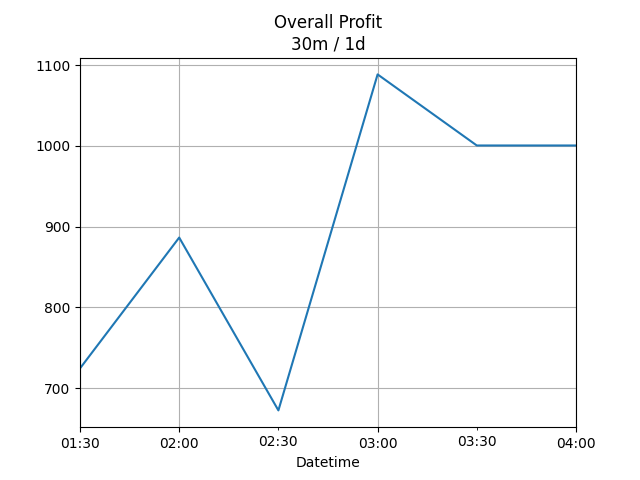
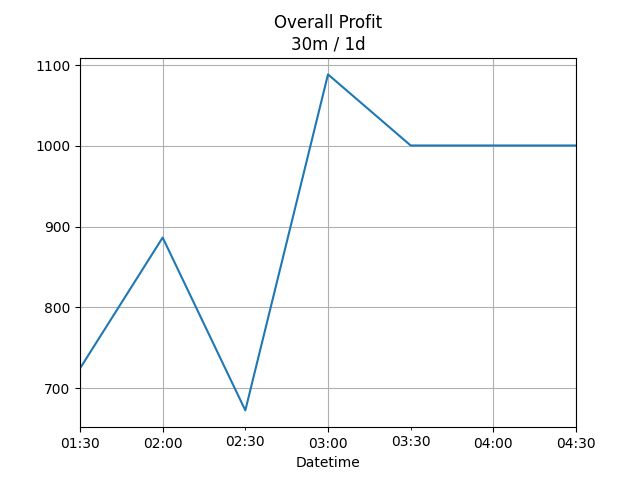
github action

diff --git a/record/mm/summary.md b/record/mm/summary.md
@@ -2,7 +2,7 @@
 ### $1000.60
 |type|graph|data|
 |:---:|:---:|:---:|
-|30m / 1d|![net_profit](image/overall_30m-1d.png)|<table border="1" class="dataframe"> <thead> <tr style="text-align: center;"> <th>Datetime</th> <th>profit</th> </tr> </thead> <tbody> <tr> <td>01:30</td> <td>724.6</td> </tr> <tr> <td>02:00</td> <td>886.6</td> </tr> <tr> <td>02:30</td> <td>672.6</td> </tr> <tr> <td>03:00</td> <td>1088.6</td> </tr> <tr> <td>03:30</td> <td>1000.6</td> </tr> <tr> <td>04:00</td> <td>1000.6</td> </tr> </tbody></table>|
+|30m / 1d|![net_profit](image/overall_30m-1d.png)|<table border="1" class="dataframe"> <thead> <tr style="text-align: center;"> <th>Datetime</th> <th>profit</th> </tr> </thead> <tbody> <tr> <td>01:30</td> <td>724.6</td> </tr> <tr> <td>02:00</td> <td>886.6</td> </tr> <tr> <td>02:30</td> <td>672.6</td> </tr> <tr> <td>03:00</td> <td>1088.6</td> </tr> <tr> <td>03:30</td> <td>1000.6</td> </tr> <tr> <td>04:00</td> <td>1000.6</td> </tr> <tr> <td>04:30</td> <td>1000.6</td> </tr> </tbody></table>|
 |1d / 5d|![net_profit](image/overall_1d-5d.png)|<table border="1" class="dataframe"> <thead> <tr style="text-align: center;"> <th>Date</th> <th>profit</th> </tr> </thead> <tbody> <tr> <td>2025-08-26</td> <td>1864.6</td> </tr> <tr> <td>2025-08-27</td> <td>1474.6</td> </tr> <tr> <td>2025-08-28</td> <td>584.6</td> </tr> <tr> <td>2025-08-31</td> <td>850.6</td> </tr> <tr> <td>2025-09-01</td> <td>1000.6</td> </tr> </tbody></table>|
 |1wk / 1mo|![net_profit](image/overall_1wk-1mo.png)|<table border="1" class="dataframe"> <thead> <tr style="text-align: center;"> <th>Date</th> <th>profit</th> </tr> </thead> <tbody> <tr> <td>2025-08-03</td> <td>3666.99</td> </tr> <tr> <td>2025-08-10</td> <td>1472.30</td> </tr> <tr> <td>2025-08-17</td> <td>1872.14</td> </tr> <tr> <td>2025-08-24</td> <td>-426.28</td> </tr> <tr> <td>2025-08-31</td> <td>1000.60</td> </tr> </tbody></table>|
 ---
@@ -10,7 +10,7 @@
 #### TECON BIOLOGY Co.LTD
 |price|profit|data|
 |:---:|:---:|:---:|
-|![price](image/002100.SZ_30m-1d_price.png)|![profit](image/002100.SZ_30m-1d_profit.png)|<table border="1" class="dataframe"> <thead> <tr style="text-align: center;"> <th>Datetime</th> <th>profit</th> </tr> </thead> <tbody> <tr> <td>09:30</td> <td>-4875.4</td> </tr> <tr> <td>10:00</td> <td>-4913.4</td> </tr> <tr> <td>10:30</td> <td>-5027.4</td> </tr> <tr> <td>11:00</td> <td>-4761.4</td> </tr> <tr> <td>11:30</td> <td>-4799.4</td> </tr> <tr> <td>12:00</td> <td>-4799.4</td> </tr> </tbody></table>|
+|![price](image/002100.SZ_30m-1d_price.png)|![profit](image/002100.SZ_30m-1d_profit.png)|<table border="1" class="dataframe"> <thead> <tr style="text-align: center;"> <th>Datetime</th> <th>profit</th> </tr> </thead> <tbody> <tr> <td>09:30</td> <td>-4875.4</td> </tr> <tr> <td>10:00</td> <td>-4913.4</td> </tr> <tr> <td>10:30</td> <td>-5027.4</td> </tr> <tr> <td>11:00</td> <td>-4761.4</td> </tr> <tr> <td>11:30</td> <td>-4799.4</td> </tr> <tr> <td>12:00</td> <td>-4799.4</td> </tr> <tr> <td>12:30</td> <td>-4799.4</td> </tr> </tbody></table>|
 |![price](image/002100.SZ_1d-5d_price.png)|![profit](image/002100.SZ_1d-5d_profit.png)|<table border="1" class="dataframe"> <thead> <tr style="text-align: center;"> <th>Date</th> <th>profit</th> </tr> </thead> <tbody> <tr> <td>2025-08-27</td> <td>-4685.4</td> </tr> <tr> <td>2025-08-28</td> <td>-4875.4</td> </tr> <tr> <td>2025-08-29</td> <td>-5065.4</td> </tr> <tr> <td>2025-09-01</td> <td>-4799.4</td> </tr> <tr> <td>2025-09-02</td> <td>-4799.4</td> </tr> </tbody></table>|
 |![price](image/002100.SZ_1wk-1mo_price.png)|![profit](image/002100.SZ_1wk-1mo_profit.png)|<table border="1" class="dataframe"> <thead> <tr style="text-align: center;"> <th>Date</th> <th>profit</th> </tr> </thead> <tbody> <tr> <td>2025-08-04</td> <td>-5255.4</td> </tr> <tr> <td>2025-08-11</td> <td>-5825.4</td> </tr> <tr> <td>2025-08-18</td> <td>-5179.4</td> </tr> <tr> <td>2025-08-25</td> <td>-5065.4</td> </tr> <tr> <td>2025-09-01</td> <td>-4799.4</td> </tr> </tbody></table>|
 ---
